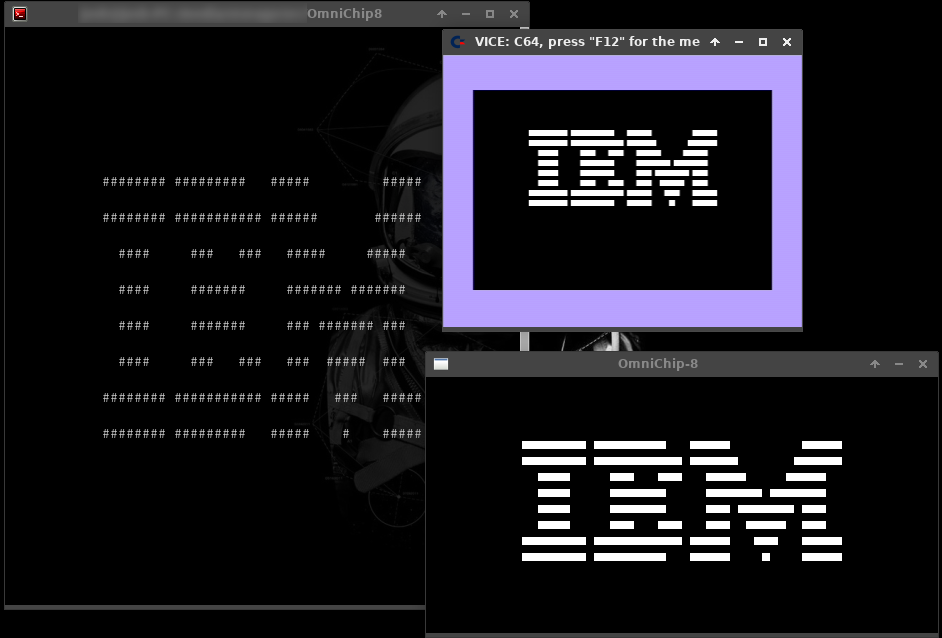
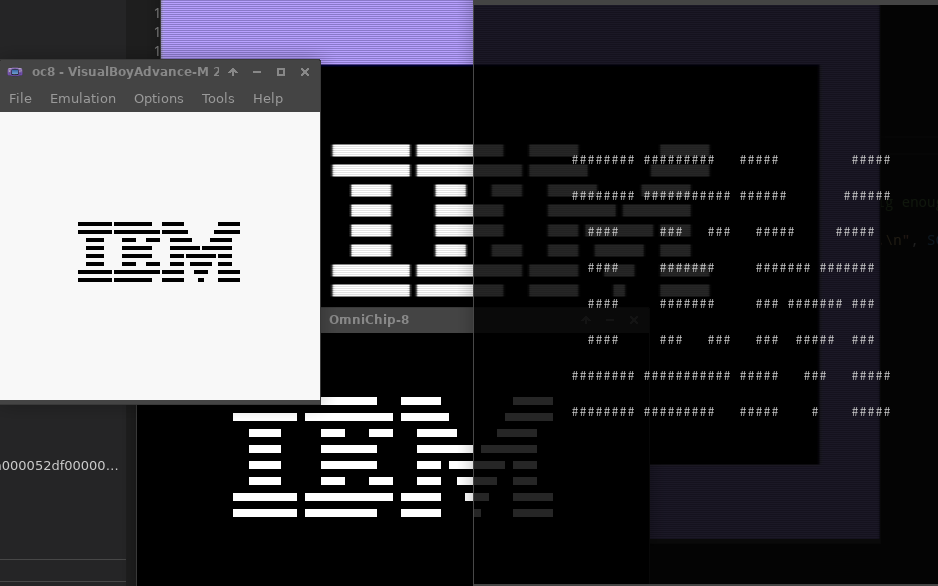
Update screenshot with GameBoy, add build instructions to README

diff --git a/README.md b/README.md
@@ -2,6 +2,18 @@ OmniChip-8
 =======
 A Chip-8 emulator with heavy emphasis on being as cross-platform as humanly possible
 
+Building instructions
+-----
+### Desktop (SDL)
+Run `IO=sdl make` or just `make` (SDL is the default IO mode)
+### Desktop (curses, UNIX-like OSs)
+Run `IO=curses make`
+### Commodore 64
+Run `IO=c64 make build-cc65`
+### GameBoy
+Run `IO=gb make build-gb`
+
+
 Supported platforms
 ------ 
 ### Partial
